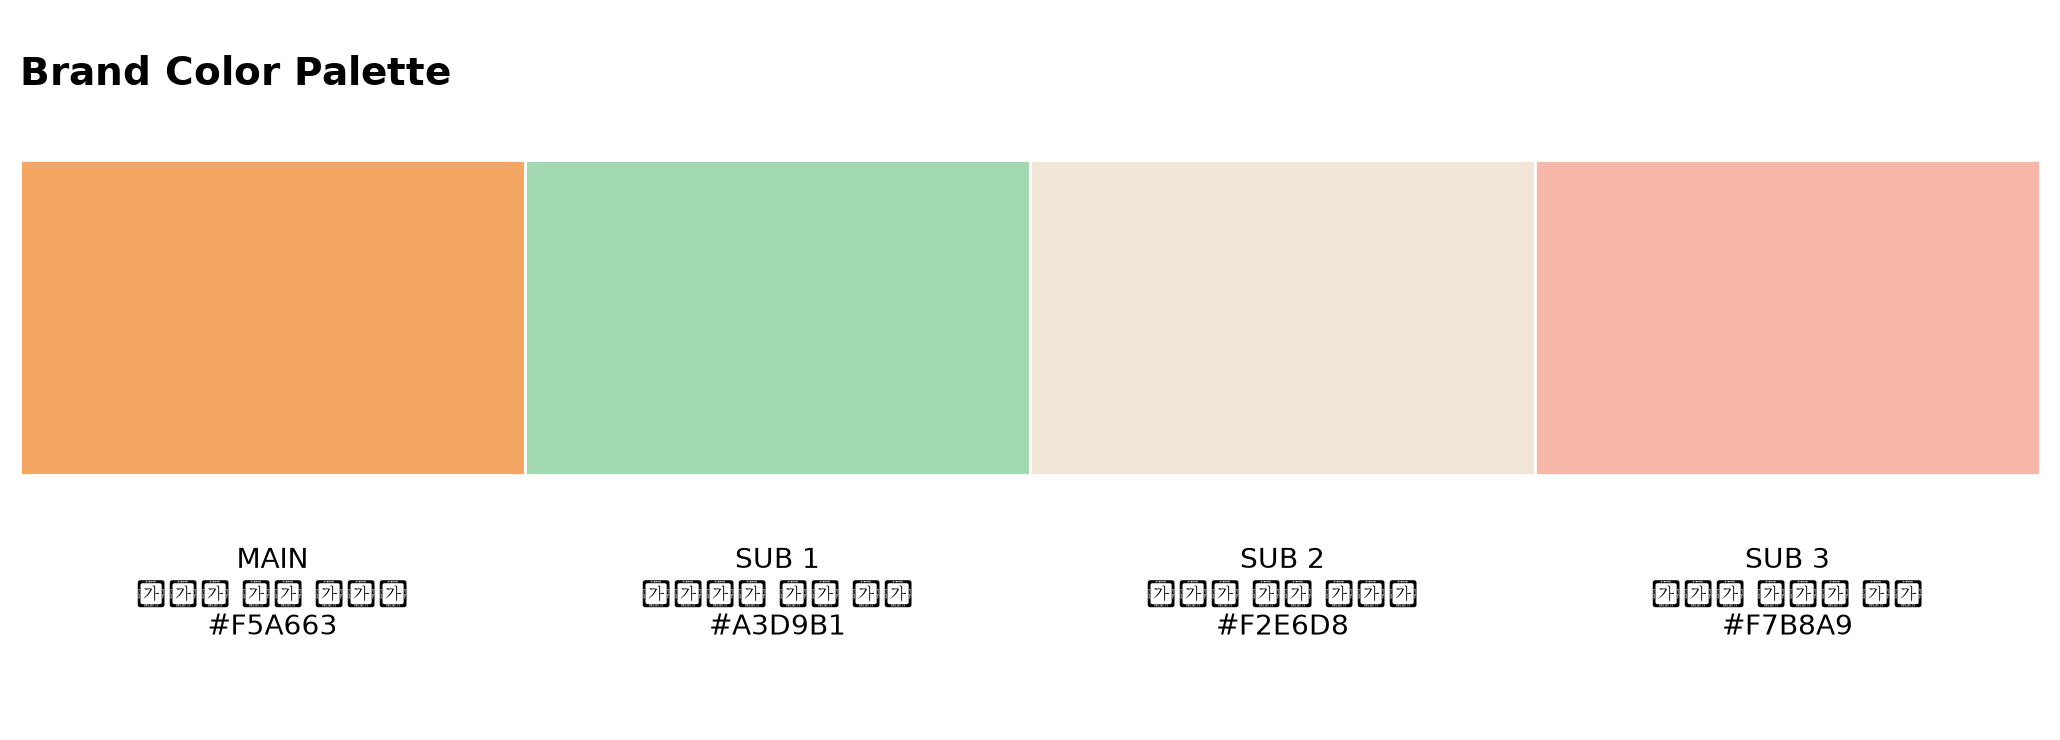
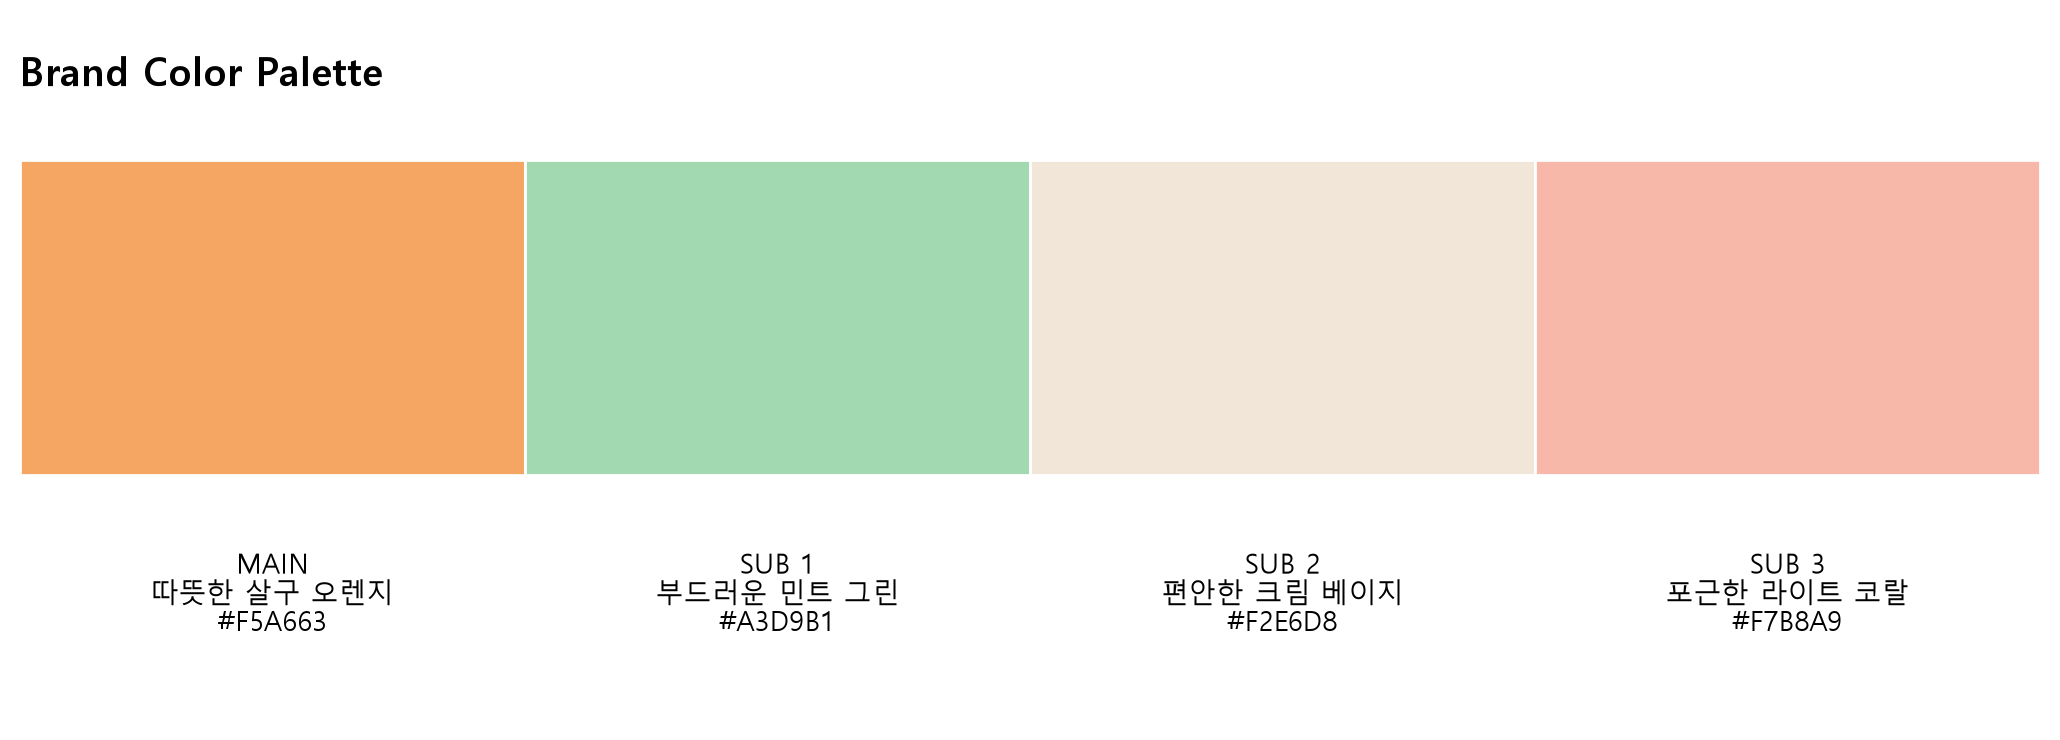
fix: 컬러 팔레트의 한글 폰트 깨짐을 수정한다

diff --git a/02. AI 활용 학습/팀프로젝트/main.py b/02. AI 활용 학습/팀프로젝트/main.py
@@ -27,6 +27,10 @@ from dotenv import load_dotenv
 from matplotlib.patches import Rectangle
 from openai import OpenAI
 
+# 그래프와 이미지에 한글이 네모로 깨지지 않도록 Windows 한글 폰트를 사용합니다.
+plt.rcParams["font.family"] = "Malgun Gothic"
+plt.rcParams["axes.unicode_minus"] = False
+
 
 # ====================================================================
 # 0. 준비하기
